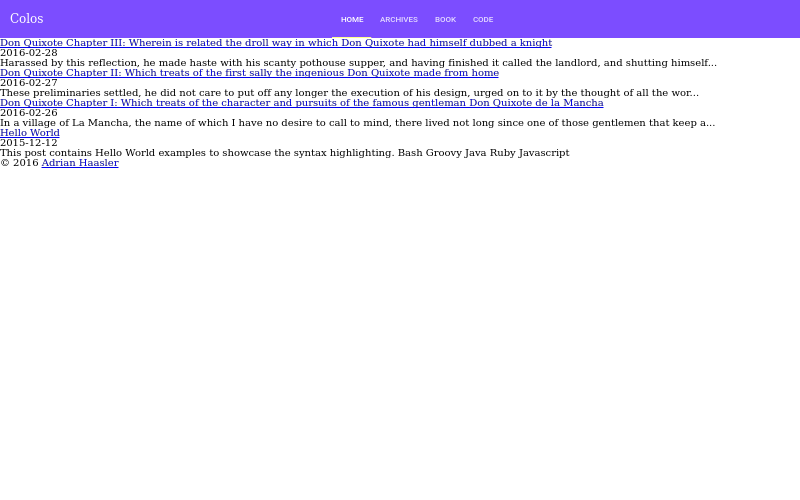
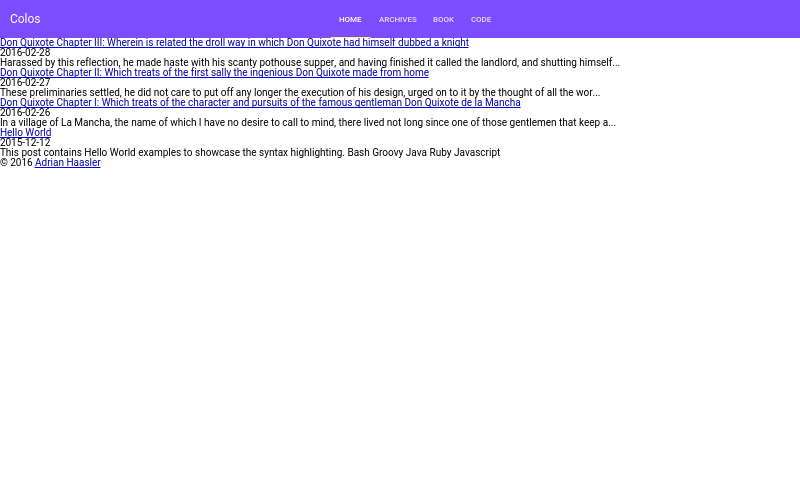
Use Roboto
Built from a2f2e0c0ebf84294d106fc02a7c35b68c04a90f7.

Changed region(s): [[0.0, 0.03, 0.9062, 0.33]]

diff --git a/source/css/main.css b/source/css/main.css
@@ -3,4 +3,4 @@ http://meyerweb.com/eric/tools/css/reset/
 v2.0 | 20110126
 License: none (public domain)
 */a,abbr,acronym,address,applet,article,aside,audio,b,big,blockquote,body,canvas,caption,center,cite,code,dd,del,details,dfn,div,dl,dt,em,embed,fieldset,figcaption,figure,footer,form,h1,h2,h3,h4,h5,h6,header,hgroup,html,i,iframe,img,ins,kbd,label,legend,li,mark,menu,nav,object,ol,output,p,pre,q,ruby,s,samp,section,small,span,strike,strong,sub,summary,sup,table,tbody,td,tfoot,th,thead,time,tr,tt,u,ul,var,video{margin:0;padding:0;border:0;font-size:100%;font:inherit;vertical-align:baseline}
-/* HTML5 display-role reset for older browsers */article,aside,details,figcaption,figure,footer,header,hgroup,menu,nav,section{display:block}body{line-height:1}ol,ul{list-style:none}blockquote,q{quotes:none}blockquote:after,blockquote:before,q:after,q:before{content:'';content:none}table{border-collapse:collapse;border-spacing:0}h1,h2,h3,h4,h5,h6{color:rgba(0,0,0,.9)}app-drawer-layout>#contentContainer:not(.narrow){margin-left:0!important}app-drawer-layout>#contentContainer:not(.narrow)+app-drawer{visibility:hidden!important}app-drawer-layout>.narrow paper-tabs{display:none!important}app-toolbar{background-color:#7c4dff}app-toolbar a{color:#fff;text-decoration:none}app-toolbar paper-tabs{height:100%!important}app-toolbar paper-tabs paper-tab{text-transform:uppercase}app-toolbar paper-tabs paper-tab[link] a{padding:0 1em}.highlight,pre{background:#212121;color:#f5f5f5}.highlight .string,pre .string{color:#ffeb3b}.highlight .comment,pre .comment{color:#727272}.highlight .keyword,pre .keyword{color:#ff4081}.highlight .built_in,pre .built_in{color:#00bcd4}.highlight .number,.literal,pre .number{color:#7c4dff}.highlight.bash .shebang,pre.bash .shebang{color:#727272}.highlight.bash .variable,pre.bash .variable{color:#b6b6b6}.highlight.bash .title,pre.bash .title{color:#8bc34a}
+/* HTML5 display-role reset for older browsers */article,aside,details,figcaption,figure,footer,header,hgroup,menu,nav,section{display:block}body{line-height:1}ol,ul{list-style:none}blockquote,q{quotes:none}blockquote:after,blockquote:before,q:after,q:before{content:'';content:none}table{border-collapse:collapse;border-spacing:0}h1,h2,h3,h4,h5,h6{color:rgba(0,0,0,.9)}body{font-family:Roboto,sans-serif}app-drawer-layout>#contentContainer:not(.narrow){margin-left:0!important}app-drawer-layout>#contentContainer:not(.narrow)+app-drawer{visibility:hidden!important}app-drawer-layout>.narrow paper-tabs{display:none!important}app-toolbar{background-color:#7c4dff}app-toolbar a{color:#fff;text-decoration:none}app-toolbar paper-tabs{height:100%!important}app-toolbar paper-tabs paper-tab{text-transform:uppercase}app-toolbar paper-tabs paper-tab[link] a{padding:0 1em}.highlight,pre{background:#212121;color:#f5f5f5}.highlight .string,pre .string{color:#ffeb3b}.highlight .comment,pre .comment{color:#727272}.highlight .keyword,pre .keyword{color:#ff4081}.highlight .built_in,pre .built_in{color:#00bcd4}.highlight .number,.literal,pre .number{color:#7c4dff}.highlight.bash .shebang,pre.bash .shebang{color:#727272}.highlight.bash .variable,pre.bash .variable{color:#b6b6b6}.highlight.bash .title,pre.bash .title{color:#8bc34a}

diff --git a/source/lib/paper-input/test/paper-input.html b/source/lib/paper-input/test/paper-input.html
@@ -83,6 +83,12 @@ subject to an additional IP rights grant found at http://polymer.github.io/PATEN
     </template>
   </test-fixture>
 
+  <test-fixture id="type-number-char-counter">
+    <template>
+      <paper-input type="number" char-counter value="1138"></paper-input>
+    </template>
+  </test-fixture>
+
   <test-fixture id="always-float-label">
     <template>
       <paper-input always-float-label label="foo"></paper-input>
@@ -177,6 +183,14 @@ subject to an additional IP rights grant found at http://polymer.github.io/PATEN
         var counter = Polymer.dom(input.root).querySelector('paper-input-char-counter')
         assert.ok(counter, 'paper-input-char-counter exists');
         assert.equal(counter._charCounterStr, input.value.length, 'character counter shows the value length');
+      });
+
+      test('character counter is correct for type=number', function() {
+        var input = fixture('type-number-char-counter');
+        forceXIfStamp(input);
+        var counter = Polymer.dom(input.root).querySelector('paper-input-char-counter')
+        assert.ok(counter, 'paper-input-char-counter exists');
+        assert.equal(counter._charCounterStr, input.value.toString().length, 'character counter shows the value length');
       });
 
       test('validator is used', function() {

diff --git a/source/lib/elements.html b/source/lib/elements.html
@@ -13100,12 +13100,15 @@ subject to an additional IP rights grant found at http://polymer.github.io/PATEN
       _resetKeyEventListeners: function() {
         this._unlistenKeyEventListeners();
 
-        if (this.isAttached && this.keyEventTarget) {
+        if (this.isAttached) {
           this._listenKeyEventListeners();
         }
       },
 
       _listenKeyEventListeners: function() {
+        if (!this.keyEventTarget) {
+          return;
+        }
         Object.keys(this._keyBindings).forEach(function(eventName) {
           var keyBindings = this._keyBindings[eventName];
           var boundKeyHandler = this._onKeyBindingEvent.bind(this, keyBindings);
@@ -21304,7 +21307,7 @@ Custom property | Description | Default
 
       state.value = state.value || '';
 
-      var counter = state.value.length.toString();
+      var counter = state.value.toString().length.toString();
 
       if (state.inputElement.hasAttribute('maxlength')) {
         counter += '/' + state.inputElement.getAttribute('maxlength');

diff --git a/source/lib/iron-a11y-keys-behavior/iron-a11y-keys-behavior.html b/source/lib/iron-a11y-keys-behavior/iron-a11y-keys-behavior.html
@@ -391,12 +391,15 @@ subject to an additional IP rights grant found at http://polymer.github.io/PATEN
       _resetKeyEventListeners: function() {
         this._unlistenKeyEventListeners();
 
-        if (this.isAttached && this.keyEventTarget) {
+        if (this.isAttached) {
           this._listenKeyEventListeners();
         }
       },
 
       _listenKeyEventListeners: function() {
+        if (!this.keyEventTarget) {
+          return;
+        }
         Object.keys(this._keyBindings).forEach(function(eventName) {
           var keyBindings = this._keyBindings[eventName];
           var boundKeyHandler = this._onKeyBindingEvent.bind(this, keyBindings);

diff --git a/source/lib/iron-a11y-keys-behavior/test/basic-test.html b/source/lib/iron-a11y-keys-behavior/test/basic-test.html
@@ -431,6 +431,15 @@ suite('Polymer.IronA11yKeysBehavior', function() {
     });
   });
 
+  suite('remove key behavior with null target', function () {
+    test('add and remove a iron-a11y-keys-behavior', function () {
+      var element = document.createElement('x-a11y-basic-keys');
+      element.keyEventTarget = null;
+      document.body.appendChild(element);
+      document.body.removeChild(element);
+    });
+  });
+
 });
   </script>
 </body>

diff --git a/source/lib/paper-input/paper-input-char-counter.html b/source/lib/paper-input/paper-input-char-counter.html
@@ -87,7 +87,7 @@ Custom property | Description | Default
 
       state.value = state.value || '';
 
-      var counter = state.value.length.toString();
+      var counter = state.value.toString().length.toString();
 
       if (state.inputElement.hasAttribute('maxlength')) {
         counter += '/' + state.inputElement.getAttribute('maxlength');
